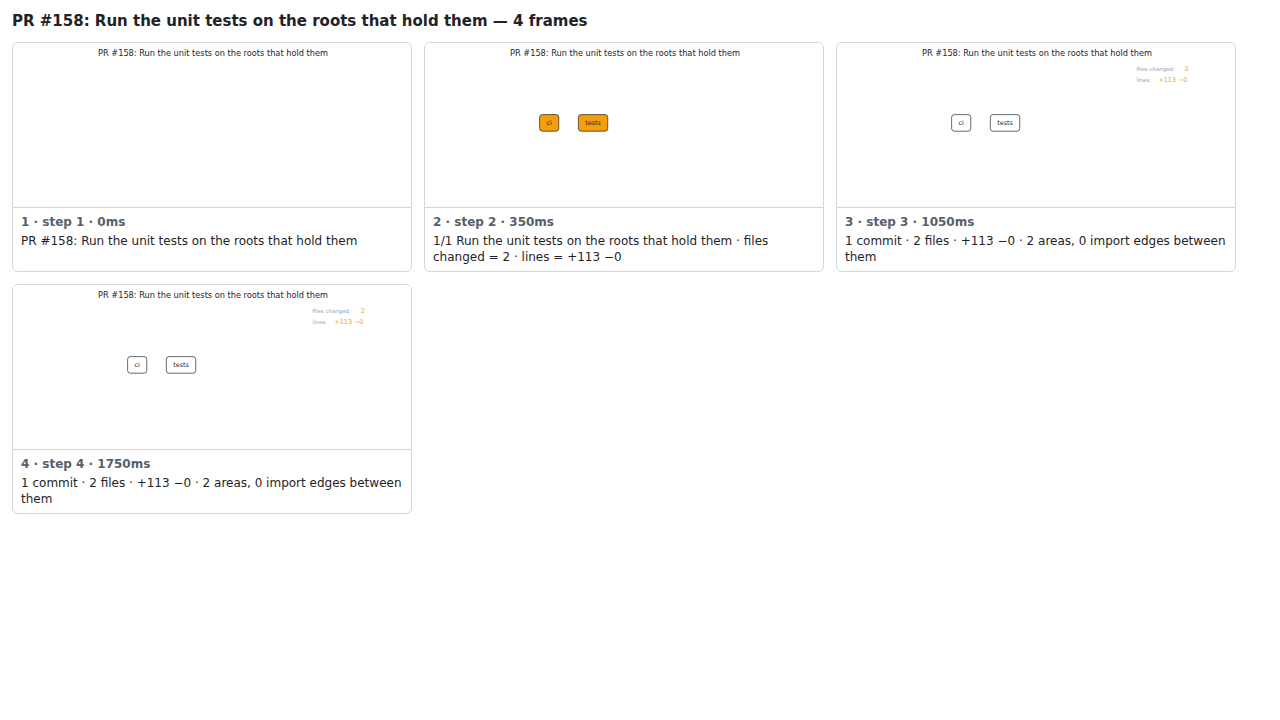
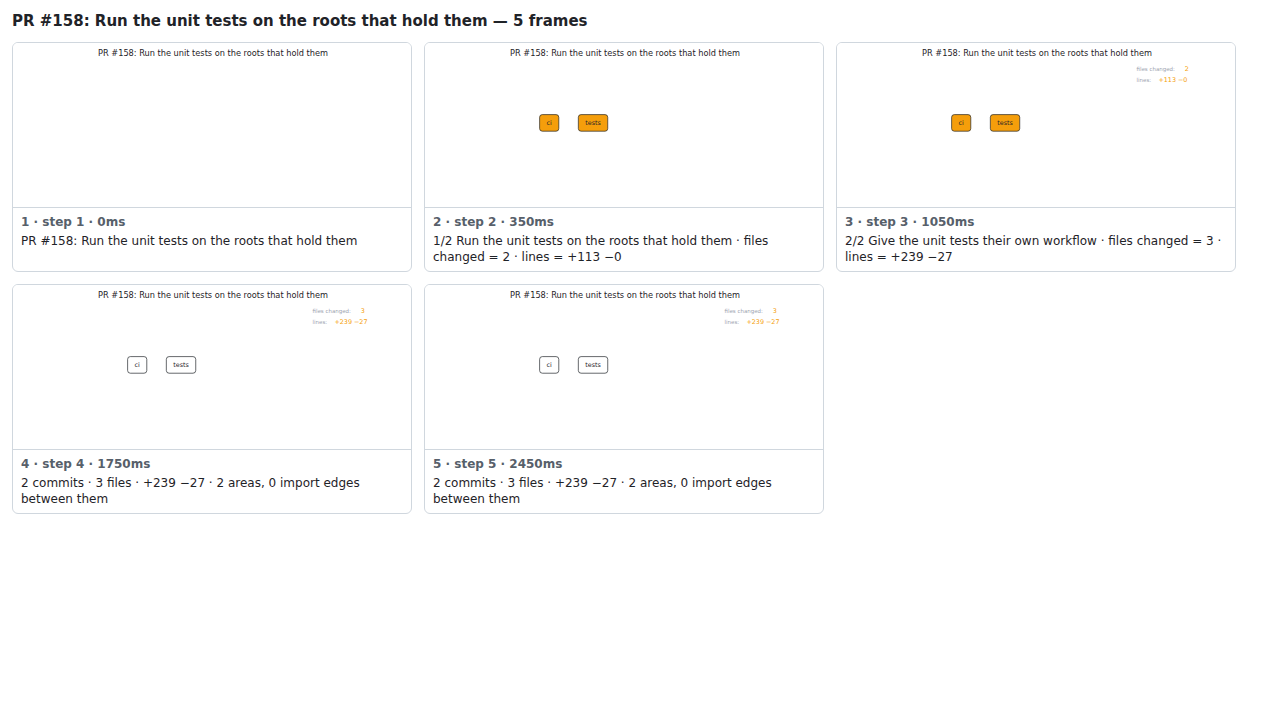
PR #158 @ 8916527

diff --git a/158/change-map.md b/158/change-map.md
@@ -7,11 +7,12 @@
 ![steps](./change-map.sheet.png)
 
 ```
-PR #158: Run the unit tests on the roots that hold them — 4 steps, 1960ms, 8 nodes
+PR #158: Run the unit tests on the roots that hold them — 5 steps, 2660ms, 8 nodes
  1. [    0ms] PR #158: Run the unit tests on the roots that hold them
- 2. [  350ms] 1/1 Run the unit tests on the roots that hold them · files changed = 2 · lines = +113 −0
- 3. [ 1050ms] 1 commit · 2 files · +113 −0 · 2 areas, 0 import edges between them
- 4. [ 1750ms] (end)
+ 2. [  350ms] 1/2 Run the unit tests on the roots that hold them · files changed = 2 · lines = +113 −0
+ 3. [ 1050ms] 2/2 Give the unit tests their own workflow · files changed = 3 · lines = +239 −27
+ 4. [ 1750ms] 2 commits · 3 files · +239 −27 · 2 areas, 0 import edges between them
+ 5. [ 2450ms] (end)
 ```
 
 </details>
